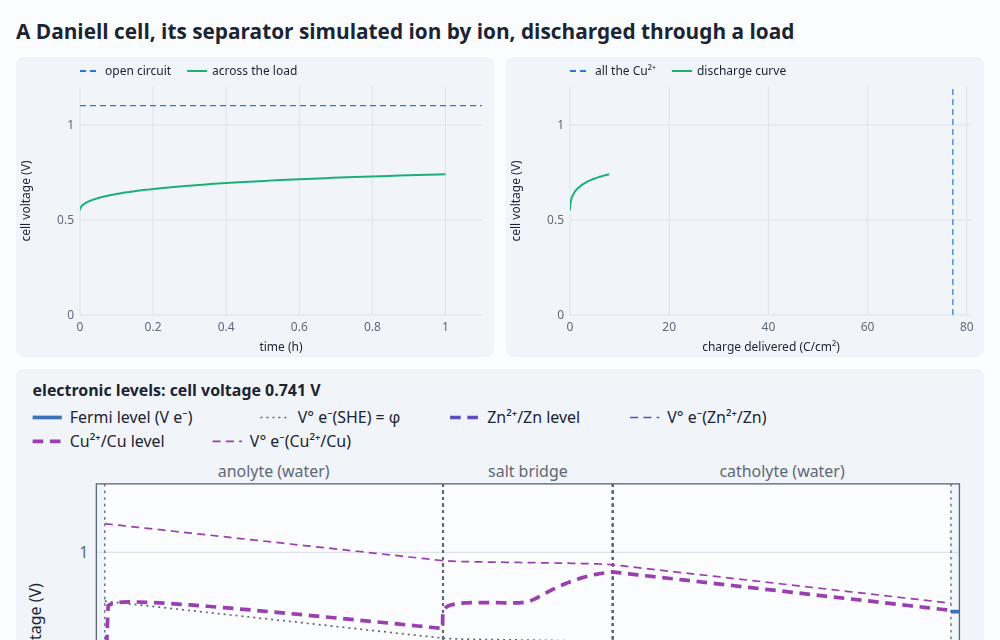
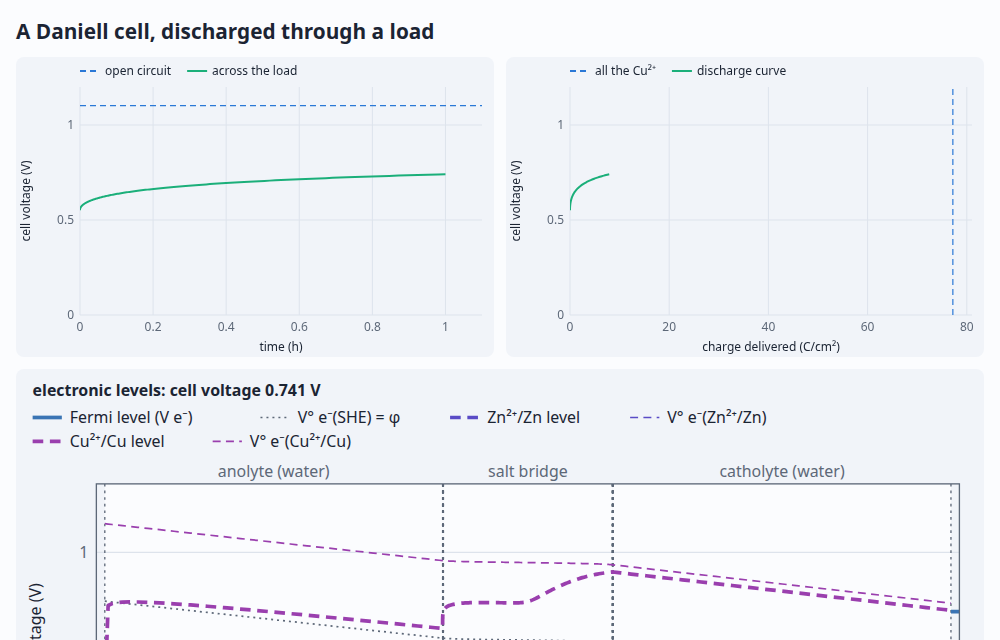
Daniell demo: a summary first, the model and what to look for below; the whole cell ion by ion
The junction zoom (each ion's voltage relative to the anolyte) is replaced by the ESBD ionic view
of the whole cell, and species voltages are introduced for readers meeting them for the first
time.

Changed region(s): [[0.155, 0.0312, 0.806, 0.0625]]

diff --git a/demos/daniell.html b/demos/daniell.html
@@ -8,32 +8,11 @@
 </head>
 <body>
 <main>
-  <h1>A Daniell cell, its separator simulated ion by ion, discharged through a load</h1>
-  <p>Zn | 0.1 M ZnSO₄ | 3 M KCl salt bridge | 0.1 M CuSO₄ | Cu, built in a tube: the two solutions are each
-    4 cm long and stirred, the bridge 2 cm of unstirred KCl, and everything per unit area of the tube's bore.
-    (A real cell has beakers far bigger than its bridge's bore, so its solutions change more slowly; 1D can't
-    hold that geometry.) At open circuit each metal's Fermi level sits at its couple's redox level, 1.10 V
-    apart. Connect the load and current flows: each metal departs from its couple's level by an overpotential,
-    the solutions and bridge drop some of the voltage, and the rest reaches the load. Zinc dissolves, copper
-    plates, and the cell runs until the Cu²⁺ is gone.</p>
-  <p>The bridge is where a textbook says "assume the liquid junction potentials are negligible". Here it's
-    simulated, ions and all. Every ion crosses each junction, so the bridge leaks: KCl diffuses out into the
-    two solutions, and Zn²⁺, Cu²⁺ and SO₄²⁻ diffuse in, on the way to the far side. The zoomed diagram follows
-    the zinc-side junction ion by ion: each species' voltage V<sub>i</sub> changes by tens of mV across it,
-    and those differences drive the leak, yet at open circuit φ steps by only about a millivolt (under load,
-    φ also falls with the current's ohmic drop). That small step is the liquid junction potential: it
-    starts at +0.97 mV, against +0.99 mV from Henderson's formula for these solutions, and the copper side's
-    is −0.97 mV, nearly cancelling. That's why a KCl bridge works: K⁺ and Cl⁻ move at nearly the same speed. Over hours
-    the leaked KCl also makes the solutions more conductive, so under a heavy load the voltage rises at first.
-    Each end of the bridge starts as a thin zone where the solutions are pre-mixed, as at a frit (a perfectly
-    sharp start is harder for the solver, and no real junction is sharp).</p>
-  <p>Daniell's own separator was an unglazed earthenware pot: a porous wall that passes every ion, only slowly
-    (here 5 mm of pores, where ions diffuse ten times slower than in free solution). There's no KCl to leak,
-    and the junction between the two sulfate solutions is tiny. Either way, though, copper sulfate seeps
-    across, and Cu²⁺ that reaches the zinc plates straight onto it, a short circuit inside the cell that
-    wastes its charge. The status line counts it (as the copper that's gone without passing through the
-    load), and the slower the discharge, the bigger its share: at the lightest load here, over ten days, the
-    bridged cell loses about a fifth of its charge this way and the potted one about a twentieth.</p>
+  <h1>A Daniell cell, discharged through a load</h1>
+  <p>Zn | ZnSO₄ | salt bridge | CuSO₄ | Cu, with every ion simulated, the bridge's included: the voltage across
+    the load, the electrode levels that set it, the salt leaking out
+    of the bridge, and where the voltage goes. Choose Daniell's own porous pot instead of the bridge, a lighter
+    or heavier load, and how fast to play it. (More about the model, and what to look for, below.)</p>
   <div class="controls">
     <label>separator <select id="sep">
       <option value="bridge" selected>3 M KCl salt bridge</option>
@@ -53,14 +32,52 @@
     <canvas id="vq"></canvas>
     <div class="levels wide" id="levels"></div>
     <div class="levels wide" id="conc"></div>
-    <div class="levels wide" id="junction"></div>
+    <div class="levels wide" id="ions"></div>
     <div class="readout wide" id="ledger"></div>
   </div>
+  <h2>About this simulation</h2>
+  <p>The cell is built in a tube: the two solutions are each 4 cm long and stirred, the salt bridge 2 cm of
+    unstirred 3 M KCl, and everything per unit area of the tube's bore (a 1D model). A real cell's beakers are
+    far bigger than its bridge's bore, so their solutions change more slowly than here. Every ion is present
+    everywhere, if only as a 1 µM trace, so each can cross every junction; Cu²⁺ in the zinc's solution starts
+    negligible and grows only as copper seeps across. Each end of the bridge starts as a thin zone where the two
+    solutions are pre-mixed, as at a frit (a perfectly sharp start is harder for the solver, and no real
+    junction is sharp).</p>
+  <p>The first diagram is the electrons' view, in volts. Each metal's Fermi level is the voltage of its
+    electrons. Each couple (Zn²⁺/Zn, Cu²⁺/Cu) has a redox level: the electron voltage at which the local
+    solution and metal would be in equilibrium, so a metal sitting at its couple's level exchanges no net
+    current. At open circuit the two Fermi levels sit at their couples' levels, 1.10 V apart. Under load each
+    metal departs from its couple's level by an overpotential, the levels tilt across the solutions (ohmic
+    drop, and composition changes), and what's left reaches the load. The dashed thin lines are the couples'
+    standard levels, which ride on the SHE's standard level (φ itself, with table data): zinc's 0.76 V below
+    it, copper's 0.34 V above.</p>
+  <p>The ion diagram uses a quantity from the ESBD book, the species voltage V<sub>i</sub> = μ̄<sub>i</sub>/(z<sub>i</sub>F):
+    an ion's electrochemical potential expressed in volts per unit charge, so it can be drawn on the same axis
+    as the electrons' Fermi level. Ions drift and diffuse down slopes in their own V<sub>i</sub>, and an ion in
+    equilibrium with a metal's electrons sits level with them (Zn²⁺ with zinc's electrons, Cu²⁺ with copper's).
+    The thin line under each, the standard level V°<sub>i</sub>, is where V<sub>i</sub> would be at the reference
+    concentration; the gap between them is the concentration term. The ions' levels sit volts apart, so each is
+    drawn with a display offset (⌇) to share one plot.</p>
+  <p>The bridge is where a textbook says "assume the liquid junction potentials are negligible". Here they're
+    simulated: at open circuit, φ steps by +0.97 mV at the zinc side's junction and −0.97 mV at the copper
+    side's (Henderson's formula gives +0.99 and −1.00 mV for these solutions), nearly cancelling, because K⁺
+    and Cl⁻ move at nearly the same speed. Meanwhile every ion's own voltage changes by tens of mV across each
+    junction, and that drives the leak: KCl spreads out into the solutions, and Zn²⁺, Cu²⁺ and SO₄²⁻ into the
+    bridge. Over hours the leaked KCl makes the solutions more conductive, so under a heavy load the voltage
+    rises at first. Once the KCl has spread everywhere, what's left of the junction is Zn²⁺ and Cu²⁺ diffusing
+    past each other in a KCl background: with nearly equal mobilities and that supporting electrolyte, its
+    potential stays tiny.</p>
+  <p>Daniell's own separator was an unglazed earthenware pot: a porous wall that passes every ion, only slowly
+    (here 5 mm of pores, where ions diffuse ten times slower than in free solution). There's no KCl to leak,
+    and the junction between the two sulfate solutions is tiny. Either way, though, copper sulfate seeps
+    across, and Cu²⁺ that reaches the zinc plates straight onto it, a short circuit inside the cell that
+    wastes its charge. The status line counts it (as the copper that's gone without passing through the
+    load), and the slower the discharge, the bigger its share: at the lightest load here, over ten days, the
+    bridged cell loses about a fifth of its charge this way and the potted one about a twentieth.</p>
 </main>
 <script type="module">
 import { Device, FARADAY, GAS_CONSTANT } from '../src/index.js';
-import { build, layer, ohmic, half, level, aqueous, metal, traces, IONS } from '../src/kit.js';
-import { levelChart } from '../src/plot.js';
+import { build, layer, ohmic, half, level, aqueous, metal, IONS } from '../src/kit.js';
 import { chart, colors } from './plot.js';
 import { levels, profiles, showCode, fromQuery } from './common.js';
 
@@ -118,12 +135,11 @@ const emf0 = (IONS['Cu2+'].mu0 - IONS['Zn2+'].mu0) / (2 * FARADAY);
 // The faces' edge nodes, where the overpotentials are read, and the zinc-side junction.
 const sep = document.getElementById('sep');
 fromQuery(sep);
-let gZn, gCu, xJunction;
+let gZn, gCu;
 function locate() {
   const probe = new Device(cell(emf0, sep.value));
   const region = (name) => probe.model.regions.findIndex((r) => r.name === name);
   [gZn, gCu] = [probe.grid.regionStart[region('anolyte')], probe.grid.regionEnd[region('catholyte')]];
-  xJunction = probe.grid.x[probe.grid.regionEnd[region('anolyte')]];
 }
 const ledger = (sol) => {
   const Vzn = sol.V['e-'][0], Vcu = sol.V['e-'].at(-1);
@@ -240,22 +256,14 @@ function draw(sol, flat) {
     species: ['K+', 'Cl-', 'Zn2+', 'Cu2+', 'SO42-'],
     title: sep.value === 'pot' ? 'concentrations: copper seeping through the wall' : 'concentrations: the bridge leaking', ylabel: 'concentration (M)', scale: 1e-3, log: true, range: [-6, 1],
   });
-  // The zinc-side junction (or the pot's wall), ion by ion: each species' voltage relative to its
-  // value in the stirred anolyte (mV), and φ likewise. A junction's window widens as it spreads.
-  const isPot = sep.value === 'pot';
-  const w = isPot ? wall * 1.2 : Math.min(span, Math.max(5e-4, 4 * Math.sqrt(2e-9 * sol.time)));
-  const xlim = [xJunction - w / 4, xJunction + w];
-  const tr = traces(sol, { species: isPot ? ['Zn2+', 'Cu2+', 'SO42-'] : ['K+', 'Cl-', 'Zn2+', 'SO42-'], standard: false, phi: true });
-  const g0 = sol.x.findIndex((x) => x >= xlim[0]);
-  for (const line of tr.series) {
-    const ref = line.y[g0];
-    line.y = line.y.map((v) => 1000 * (v - ref));
-    line.label = line.id === 'phi' ? 'φ' : `${line.label} (from its value in the anolyte)`;
-  }
-  const iJ = sol.x.findIndex((x) => x >= xJunction + w * 0.9);
-  document.getElementById('junction').innerHTML = levelChart(tr, {
-    width: 720, height: 360, xlim, ylabel: 'change from the anolyte (mV)',
-    title: `${isPot ? 'the porous wall' : 'the zinc-side junction'}: φ changes by ${(1000 * (sol.phi[iJ] - sol.phi[g0])).toFixed(2)} mV across this window, ohmic drop included`,
+  // The ions' view (ESBD): each one's species voltage V_i (thick) and standard level V°_i (thin),
+  // with the metals' electrons. The ions sit volts apart, so each is drawn with a display offset (⌇).
+  levels(document.getElementById('ions'), sol, {
+    title: 'species voltages and standard levels, ion by ion',
+    species: ['e-', 'Zn2+', 'Cu2+', 'K+', 'Cl-', 'SO42-'],
+    shifts: { 'K+': 2.6, 'Cl-': -1.6, 'SO42-': -3.9 },
+    range: [-0.4, 1.4],
+    ylabel: 'voltage (V)',
   });
   // Where the voltage goes: exact, as differences of levels at the two faces.
   const row = (name, v, strong) => `<tr${strong ? ' style="font-weight:600"' : ''}><td>${name}</td><td style="text-align:right;white-space:nowrap;padding-left:12px">${v >= 0 ? '+' : '−'}${Math.abs(v).toFixed(3)} V</td></tr>`;
